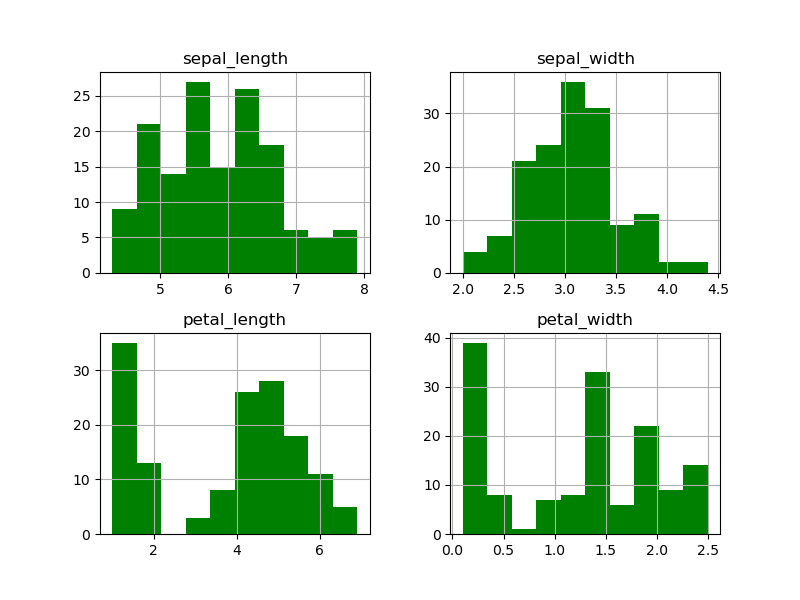
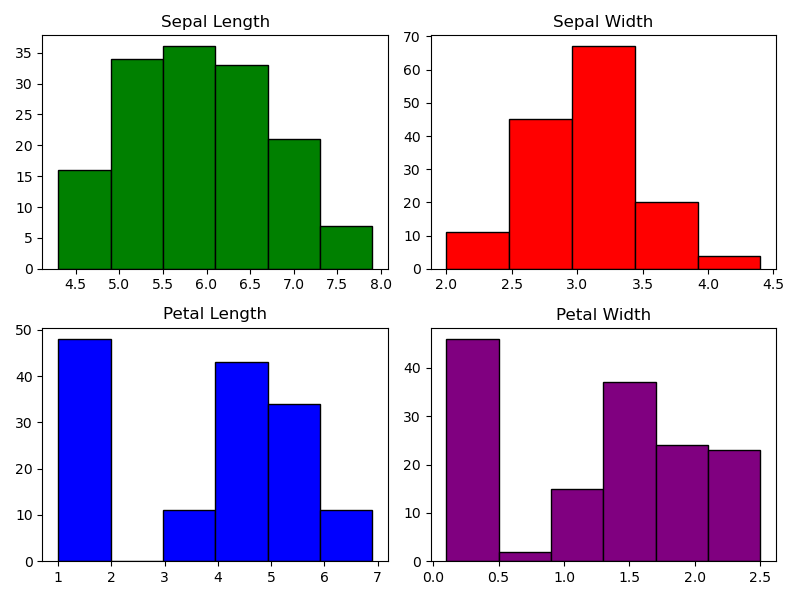
completed univariate analysis, improved histogram

diff --git a/analysis.py b/analysis.py
@@ -44,10 +44,34 @@ print(iris_df.describe())
 with open('iris_summary.txt', 'w') as file:
     file.write(iris_df.describe().to_string())
 
-# Create histograms for each feature
-iris_df.hist(color='green', figsize = (8, 6))
+# Create subplots
+fig, ax = plt.subplots(2, 2, figsize=(8, 6))
+
+# Create histogram for sepal length
+ax[0,0].hist(iris_df['sepal_length'], bins=6, color='green', edgecolor='black')
+# Set the figure title
+ax[0,0].set_title("Sepal Length")
+
+# Create histogram for sepal width
+ax[0,1].hist(iris_df['sepal_width'], bins=5, color='red', edgecolor='black')
+# Set the figure title
+ax[0,1].set_title("Sepal Width")
+
+# Create histogram for petal length
+ax[1,0].hist(iris_df['petal_length'], bins=6, color='blue', edgecolor='black')
+# Set the figure title
+ax[1,0].set_title("Petal Length")
+
+# Create histogram for petal width
+ax[1,1].hist(iris_df['petal_width'], bins=6, color='purple', edgecolor='black')
+# Set the figure title
+ax[1,1].set_title("Petal Width")
+
+# Adjust layout to prevent overlap
+plt.tight_layout()
 plt.show()
 
 # Create boxplot of each feature
 sns.boxplot(data=iris_df, orient='v', palette='Set3')
 plt.show()
+
